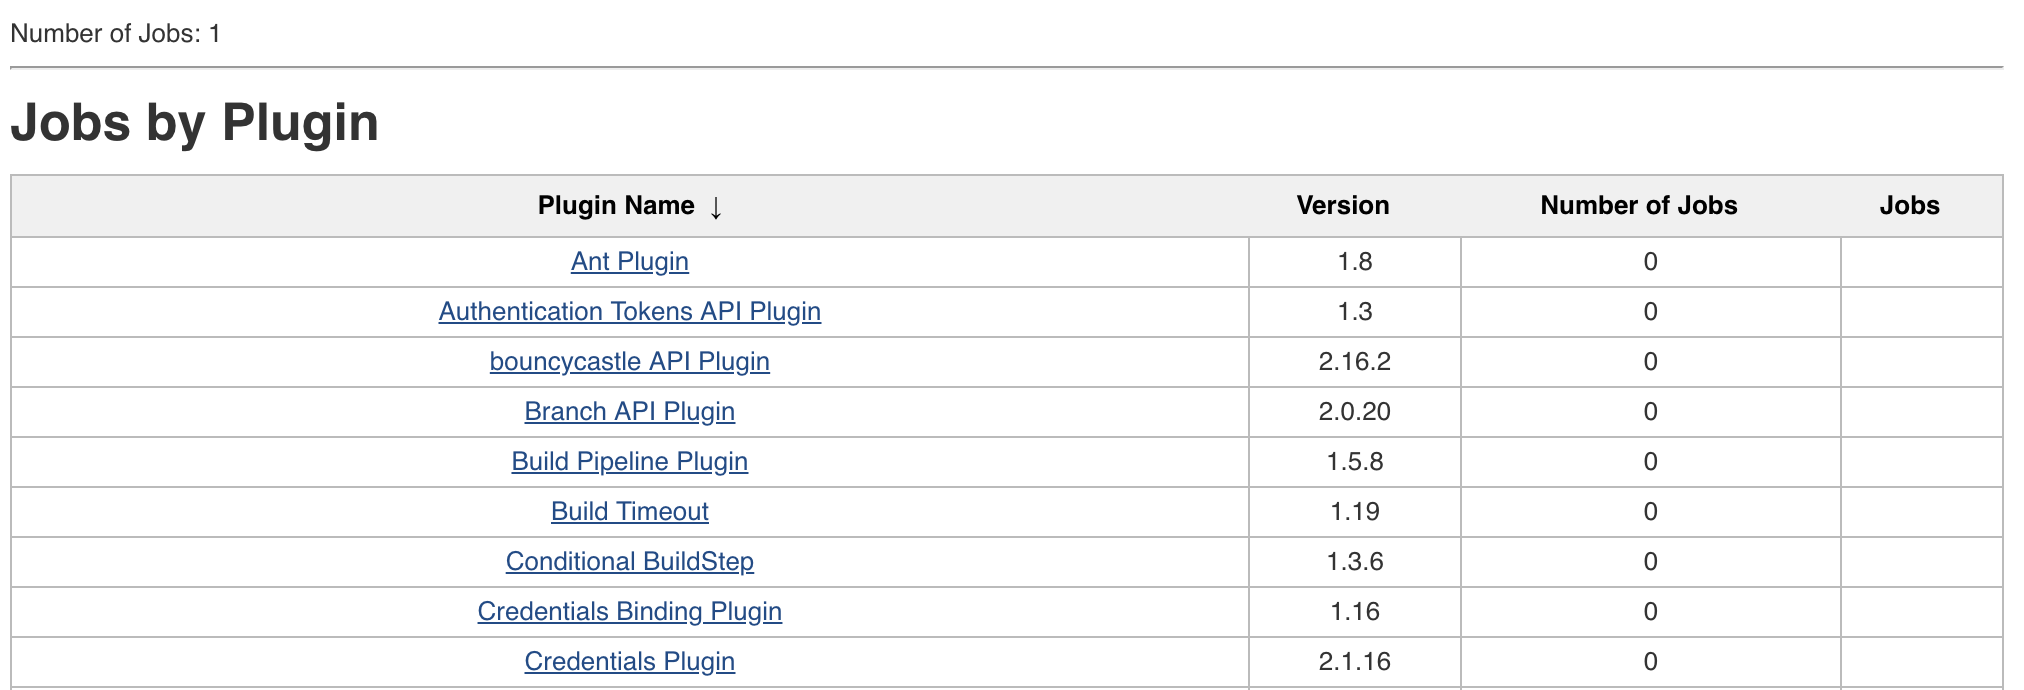
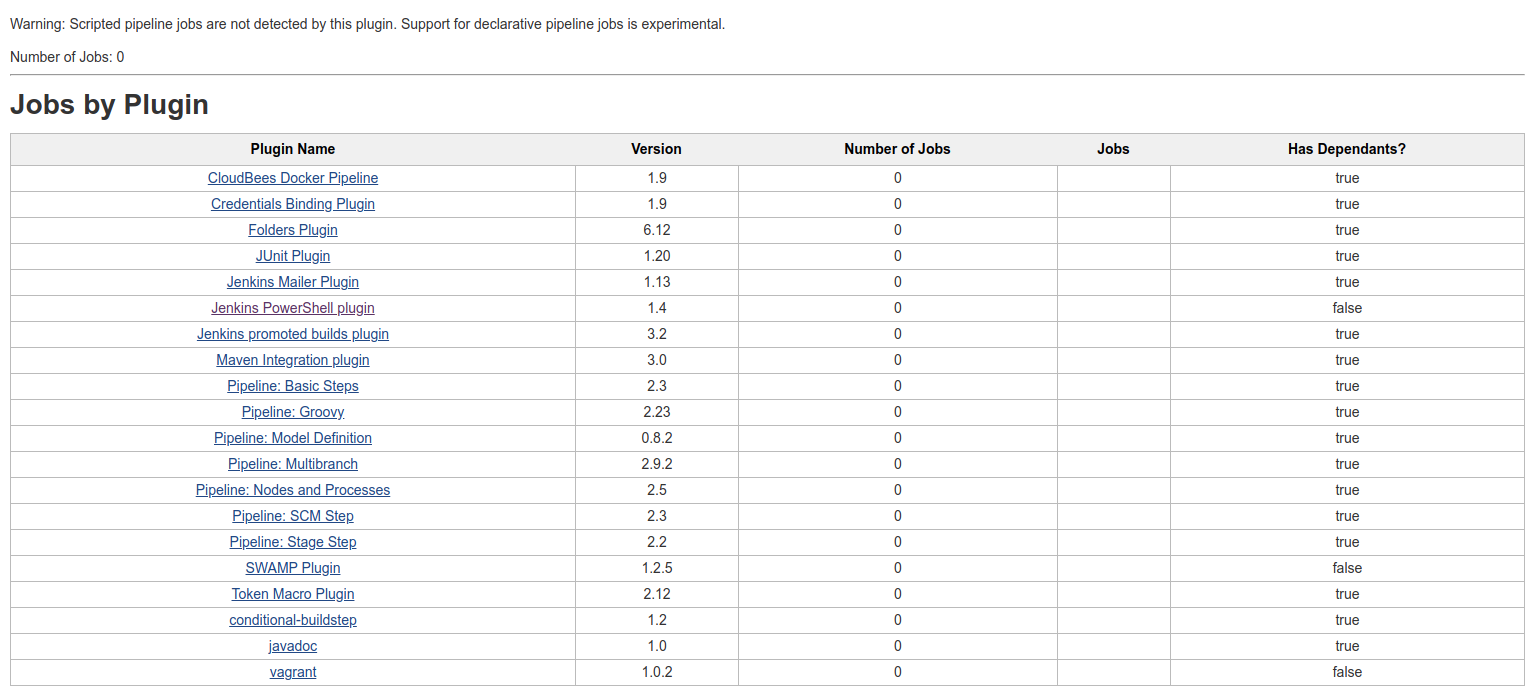
Added columns to indicate if a plugin has dependants or not

diff --git a/src/main/java/org/jenkinsci/plugins/pluginusage/JobsPerPlugin.java b/src/main/java/org/jenkinsci/plugins/pluginusage/JobsPerPlugin.java
@@ -47,4 +47,8 @@ public class JobsPerPlugin {
 		return plugin;
 	}
 
+	public boolean hasDependants(){
+		return plugin.hasDependants();
+	}
+
 }
